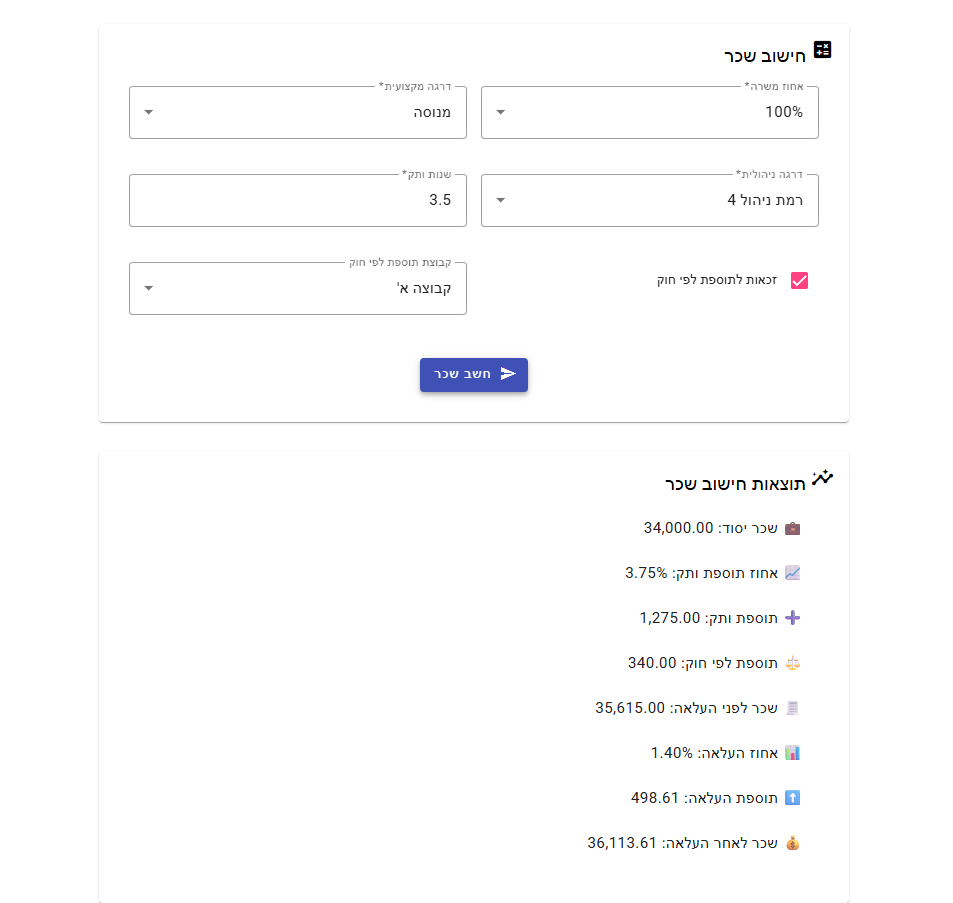
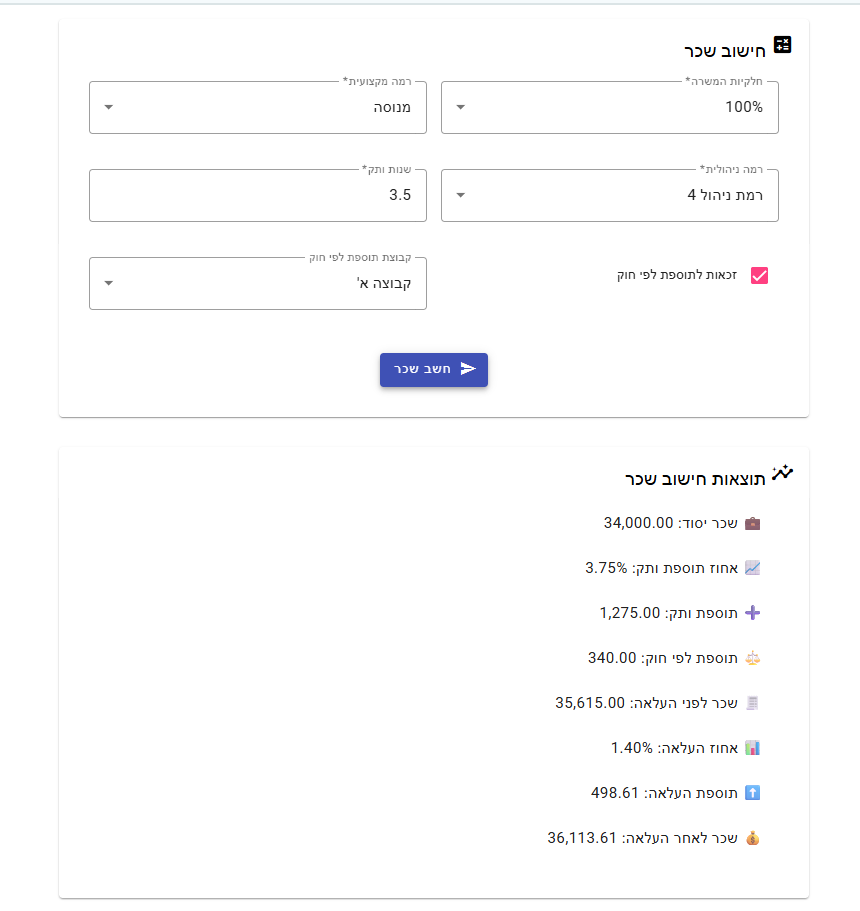
fix

diff --git a/client/SalaryCalculator-Client/src/app/components/salary-calculator/salary-calculator.component.html b/client/SalaryCalculator-Client/src/app/components/salary-calculator/salary-calculator.component.html
@@ -7,9 +7,9 @@
     <mat-card-content>
         <form [formGroup]="form">
             <div class="form-grid">
-                <!-- אחוז משרה -->
+                <!-- חלקיות המשרה -->
                 <mat-form-field appearance="outline">
-                    <mat-label>אחוז משרה</mat-label>
+                    <mat-label>חלקיות המשרה</mat-label>
                     <mat-select formControlName="partTimePercent">
                         <mat-option *ngFor="let item of partTimePercents$ | async" [value]="item.id">
                             {{ item.value }}%
@@ -17,9 +17,9 @@
                     </mat-select>
                 </mat-form-field>
 
-                <!-- דרגה מקצועית -->
+                <!-- רמה מקצועית -->
                 <mat-form-field appearance="outline">
-                    <mat-label>דרגה מקצועית</mat-label>
+                    <mat-label>רמה מקצועית</mat-label>
                     <mat-select formControlName="professionalLevel">
                         <mat-option *ngFor="let item of professionalLevels$ | async" [value]="item.id">
                             {{ item.value }}
@@ -27,9 +27,9 @@
                     </mat-select>
                 </mat-form-field>
 
-                <!-- דרגה ניהולית -->
+                <!-- רמה ניהולית -->
                 <mat-form-field appearance="outline">
-                    <mat-label>דרגה ניהולית</mat-label>
+                    <mat-label>רמה ניהולית</mat-label>
                     <mat-select formControlName="managementLevel">
                         <mat-option *ngFor="let item of managementLevels$ | async" [value]="item.id">
                             {{ item.value }}

diff --git a/README.md b/README.md
@@ -1,1 +1,27 @@
-# salary-calculator
+אפליקצית מחשבון לחישוב העלאת שכר
+
+אפליקציית Full Stack מבוססת Angular 17 ו־ASP.NET Core 8, המדמה מחשבון שכר לעובדים במגזר הציבורי.
+
+האפליקציה מאפשרת לחשב שכר לפי מגוון פרמטרים כמו דרגה מקצועית, דרגה ניהולית, שנות ותק, אחוז משרה, זכאות לתוספות שכר לפי חוק ועוד.
+
+טכנולוגיות בשהשתמשתי בהם:
+
+צד לקוח (Frontend): Angular 17, Angular Material
+
+צד שרת (Backend): ASP.NET Core 8 (Web API)
+
+שפות תכנות: TypeScript (לקוח), C# (שרת)
+
+מבנה: SPA + REST API
+
+הקמה מקומית:
+
+הפעלת האפליקציה
+
+כדי ליצור טבלאות במסד הנתונים, יש להריץ את הפקודות הבאות בטרמינל כאשר המיקום היא בתוך הפרוייקט:
+
+1. dotnet ef migrations add InitialCreate
+2. dotnet ef database update
+
+
+
